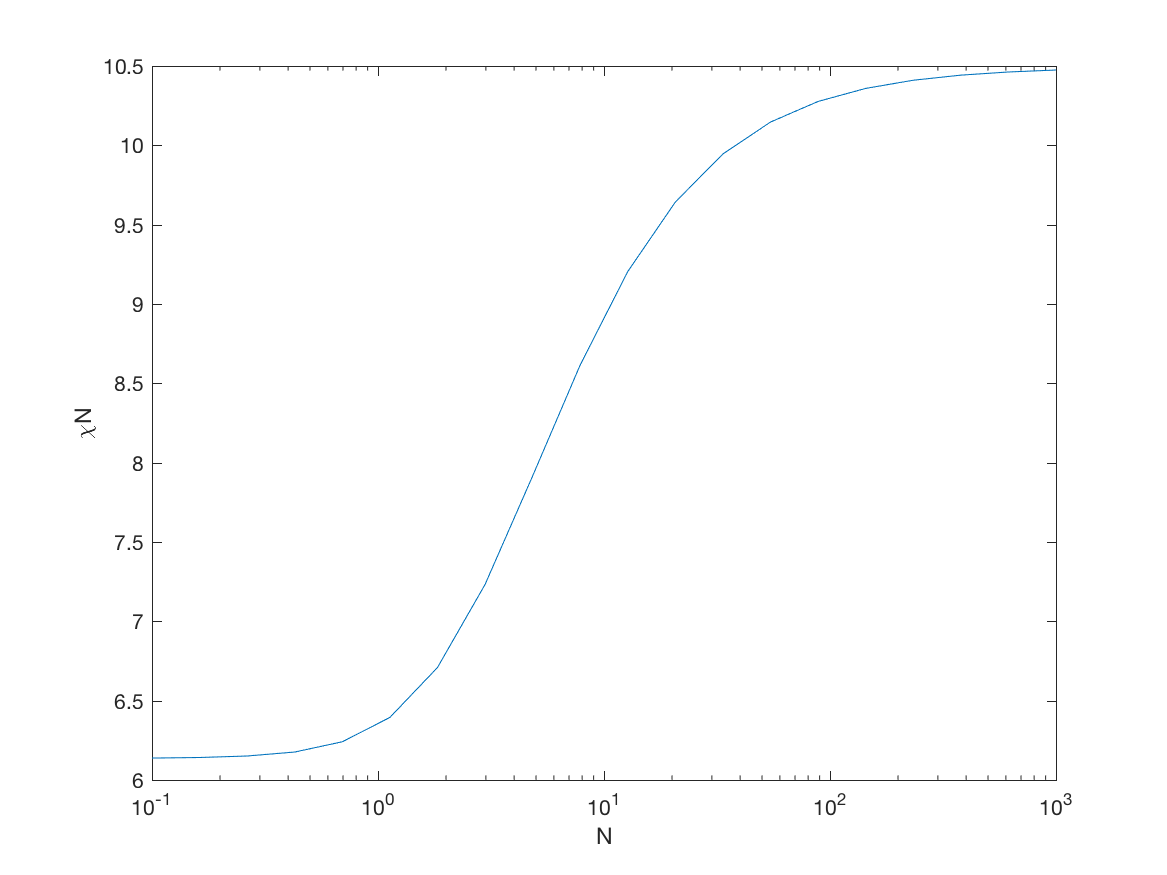
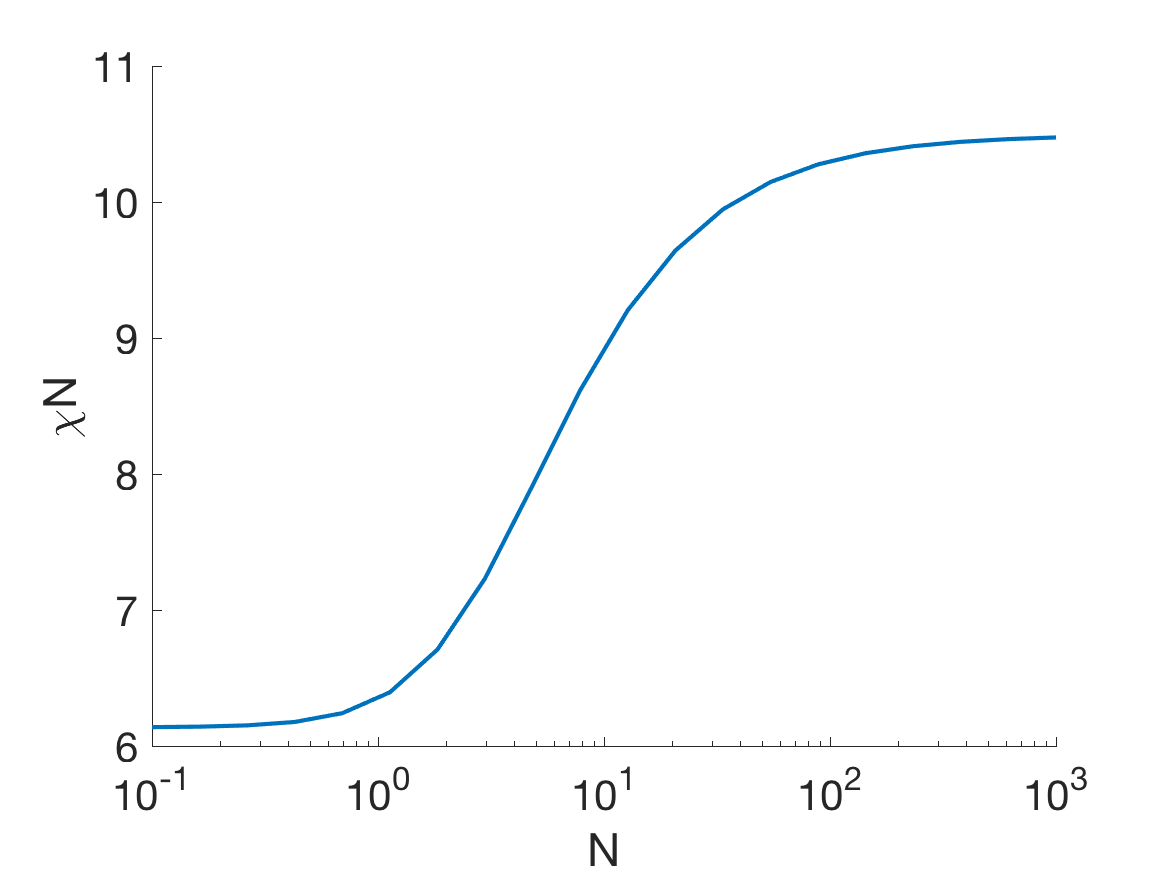
updated readme with figures

diff --git a/example.m b/example.m
@@ -12,49 +12,59 @@ C=1e3;  % dimensionless excluded volume parameter in the Gaussian limit
 
 % Figure 1: make a mean-field phase diagram
 plotphase(N,FAV);
-saveas(gca,'example_figures/MFphase.png','png')
 
 % Figure 2: make a phase diagram with density fluctuations
 plotphaseRG(N,C,FAV);
-saveas(gca,'example_figures/FLCphase.png','png')
 
-% Figure 3: mean-field spinodal and critical wavelength at FA=0.5
+% Figure 3-4: mean-field spinodal and critical wavelength at FA=0.5
 NV=logspace(-1,3,20);  % number of statistical steps of total chain
 [chis,ks,d2gam2]=spinodal(NV,0.5);
-figure;semilogx(NV,chis.*NV);xlabel('N');ylabel('\chiN')
-saveas(gca,'example_figures/spinodal.png','png')
+figure;hold;set(gca,'fontsize',20);
+plot(NV,chis.*NV,'linewidth',2);
+set(gca,'xscale','log');set(gca,'yscale','linear');
+xlabel('N');ylabel('\chiN')
 
-figure;loglog(NV,1./ks);xlabel('N');ylabel('1/q^*')
-saveas(gca,'example_figures/domain.png','png')
+figure;hold;set(gca,'fontsize',20);
+plot(NV,1./ks,'linewidth',2);
+set(gca,'xscale','log');set(gca,'yscale','log');
+xlabel('N');ylabel('1/q^*')
 
-% Figure 4: renormalized spinodal at FA=0.5
+% Figure 5: renormalized spinodal at FA=0.5
 CV=logspace(1,4,21)';
 [chit,phase]=spinodalRG(N,CV,0.5);
 chit=reshape(chit,length(CV),1);
 
 figure;hold;set(gca,'fontsize',20)
 col='b';
-plot(CV.^2,ones(length(CV),1)*spinodal(N,0.5)*N,'--','linewidth',2,'color',col)
+plot(CV.^2,ones(length(CV),1)*spinodal(N,0.5)*N,'-','linewidth',2,'color',col)
 plot(CV.^2,chit*N,'s','MarkerSize',8,'MarkerFaceColor',col,'MarkerEdgeColor',col);
 
 % %Empirical solutions
-plot(CV.^2,ones(length(CV),1)*10.480+41.01*power(CV,-2/3),'--','linewidth',2,'color','k')
+plot(CV.^2,ones(length(CV),1)*10.480+41.01*power(CV,-2/3),'-','linewidth',2,'color','k')
 set(gca,'xscale','log');box on
 xlabel('C^2');ylabel('\chiN');title(['N=',num2str(N)])
 legend('MF theory','Renormalized ODT','Fit')
-saveas(gca,'example_figures/FLCspinodal.png','png')
 
-% Figure 5: density-density correlations
+% Figure 6-7: density-density correlations
 densityRG(N,C,0.5);
-saveas(gca,'example_figures/psi2.png','png')
 
-% Figure 6: vertex functions
+% Figure 8-9: vertex functions
 NQ=1;  % number of wavevector sets in calculating GAM4
 [gam3,gam4]=calcgamma(N,FAV,NQ);
-figure;plot(FAV,-gam3*N,'k-','linewidth',2);xlim([0.2,0.5]);
+figure;hold;set(gca,'fontsize',20)
+plot(FAV,-gam3*N,'k-','linewidth',2);xlim([0.2,0.5]);
 xlabel('f_A');ylabel('-N\Gamma_3(q^*)')
-saveas(gca,'example_figures/gam3.png','png')
 
-figure;plot(FAV,gam4*N,'k-','linewidth',2);xlim([0.3,0.5]);
+figure;hold;set(gca,'fontsize',20)
+plot(FAV,gam4*N,'k-','linewidth',2);xlim([0.3,0.5]);
 xlabel('f_A');ylabel('N\Gamma_4(q^*)')
-saveas(gca,'example_figures/gam4.png','png')
+
+figure(1);saveas(gca,'example_figures/MFphase.png','png')
+figure(2);saveas(gca,'example_figures/FLCphase.png','png')
+figure(3);saveas(gca,'example_figures/spinodal.png','png')
+figure(4);saveas(gca,'example_figures/domain.png','png')
+figure(5);saveas(gca,'example_figures/FLCspinodal.png','png')
+figure(6);saveas(gca,'example_figures/psi2.png','png')
+figure(7);saveas(gca,'example_figures/sinv.png','png')
+figure(8);saveas(gca,'example_figures/gam3.png','png')
+figure(9);saveas(gca,'example_figures/gam4.png','png')

diff --git a/README.md b/README.md
@@ -35,13 +35,13 @@ plotphase(N,FAV);
 ```
 <img src="./example_figures/MFphase.png" width="800" height="600" />
 
-If fluctuation effects needs to be considered, one can make a phase diagram with presence of density fluctuations with
+If fluctuation effects needs to be considered, one can make a phase diagram with presence of density fluctuations with `plotphaseRG`.
 ```
 plotphaseRG(N,C,FAV);
 ```
 <img src="./example_figures/FLCphase.png" width="800" height="600" />
 
-The MF phase transition spinodal of diblock copolymer, and MF domain size `1/q^*` at different chain rigidities can be found with
+The MF phase transition spinodal of diblock copolymer, and MF domain size `1/q^*` at different chain rigidities can be found with function `spinodal`.
 ```
 NV=logspace(-1,3,20);  % number of statistical steps of total chain
 [chis,ks,d2gam2]=spinodal(NV,0.5);
@@ -51,13 +51,12 @@ figure;loglog(NV,1./ks);xlabel('N');ylabel('1/q^*')
 <img src="./example_figures/spinodal.png" width="800" height="600" />
 <img src="./example_figures/domain.png" width="800" height="600" />
 
-The effect of density fluctuations of the above spinodal can be found with
+The effect of density fluctuations of the above spinodal can be found with function `spinodalRG`.
 ```
 CV=logspace(1,4,21);
 [chit,phase]=spinodalRG(N,CV,0.5);
 chit=reshape(chit,length(CV),1);
 ```
-
 For comparison, renormalized spinodals can be plotted against MF and empirical solutions
 ```
 col='b';
@@ -72,13 +71,14 @@ legend('MF theory','Renormalized ODT','Fit')
 ```
 <img src="./example_figures/FLCspinodal.png" width="800" height="600" />
 
-Density-density correlations (structure factors) can be plotted using
+Density-density correlations (structure factors) can be plotted using `densityRG`, along with inverse of peak intensity.
 ```
 densityRG(N,C,0.5);
 ```
 <img src="./example_figures/psi2.png" width="800" height="600" />
+<img src="./example_figures/sinv.png" width="800" height="600" />
 
-Finally, vertex functions of free energy expansion
+Finally, vertex functions of free energy expansion at different chemical compositions can be found using functions `calcgamma`.
 ```
 NQ=1;  % number of wavevector sets in calculating GAM4
 [gam3,gam4]=calcgamma(N,FAV,NQ);
